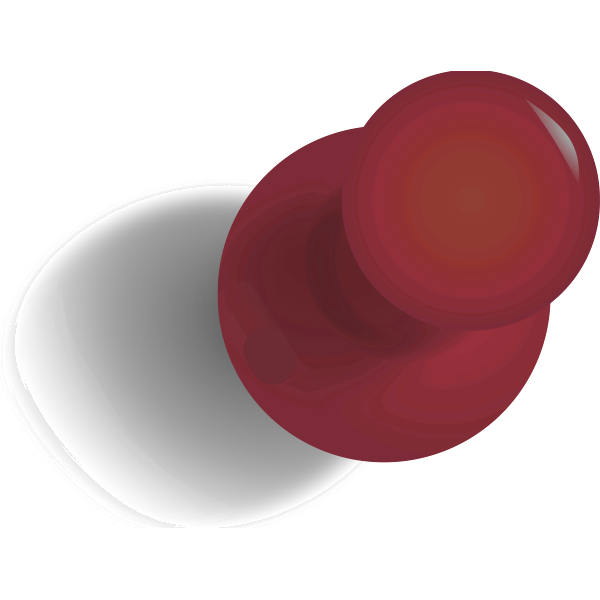
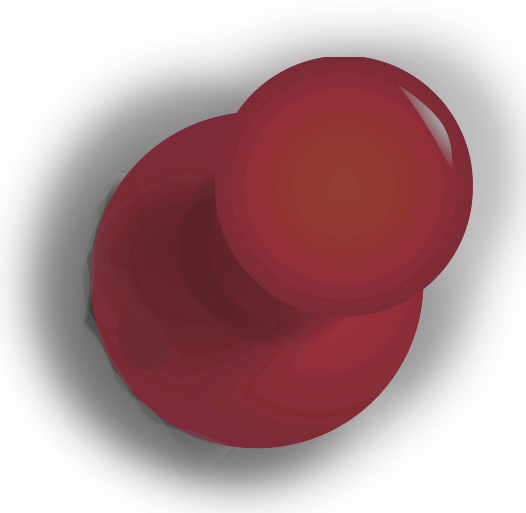
Added more shading and updated pushpin

diff --git a/frontend/src/assets/less/App.less b/frontend/src/assets/less/App.less
@@ -17,7 +17,7 @@
 
 #content {
   width: 100vw;
-  position: relative
+  position: relative;
 }
 
 // Map
@@ -30,9 +30,6 @@
     inset 0 0 300px rgb(0, 0, 0),
     inset 0 0 300px rgb(0, 0, 0);
   backdrop-filter: blur(5px);
-}
-
-#mapContainer {
 }
 
 ::-webkit-scrollbar {
@@ -64,10 +61,6 @@
   width: 100vw;
   height: 100vh;
   background-color: black !important;
-  animation: fadein 2s;
-  -moz-animation: fadein 2s; /* Firefox */
-  -webkit-animation: fadein 2s; /* Safari and Chrome */
-  -o-animation: fadein 2s; /* Opera */
 }
 
 .leaflet-bar a,
@@ -77,14 +70,16 @@
   filter: drop-shadow(2px 2px 2px #000000)
 }
 
+
 // Side Bar
 #sideBar {
   font-family: 'Aniron', sans-serif;
   position: absolute;
   z-index: 10;
-  padding-top: 50vh;
-  padding-bottom: 35vh;
+  margin-top: 30vh;
+  margin-bottom: 10vh;
   transform: rotate(180deg);
+  filter: drop-shadow(5px 5px 30px black);
 }
 
 #sideBar span {
@@ -96,6 +91,12 @@
   padding-left: 5px !important;
   padding-right: 5px !important;
   height: 60px !important;
+}
+
+.leaflet-marker-icon:hover {
+  filter: brightness(1.5);
+  filter: drop-shadow();
+  filter: saturate(1.5);
 }
 
 .ant-menu.ant-menu-dark {
@@ -144,36 +145,3 @@
 //   margin-top: 25px;
 //   filter: invert(100%);
 // }
-
-@keyframes fadein {
-  from {
-      opacity:0;
-  }
-  to {
-      opacity:1;
-  }
-}
-@-moz-keyframes fadein { /* Firefox */
-  from {
-      opacity:0;
-  }
-  to {
-      opacity:1;
-  }
-}
-@-webkit-keyframes fadein { /* Safari and Chrome */
-  from {
-      opacity:0;
-  }
-  to {
-      opacity:1;
-  }
-}
-@-o-keyframes fadein { /* Opera */
-  from {
-      opacity:0;
-  }
-  to {
-      opacity: 1;
-  }
-}

diff --git a/frontend/src/assets/less/StandardLayout.less b/frontend/src/assets/less/StandardLayout.less
@@ -21,6 +21,7 @@
     position: absolute;
     z-index: 1;
     background-color: transparent;
+    padding-top: 3vh;
 }
 .content {
     padding: 100px;
@@ -36,6 +37,10 @@
       inset 0 0 300px rgb(0, 0, 0),
       inset 0 0 300px rgb(0, 0, 0);
     backdrop-filter: blur(5px);
+    animation: fadein 3s;
+    -moz-animation: fadein 3s; /* Firefox */
+    -webkit-animation: fadein 3s; /* Safari and Chrome */
+    -o-animation: fadein 3s; /* Opera */
 }
 
 .content h2 {
@@ -96,13 +101,52 @@
 }
 
 .footer {
+    margin-top: 87vh;
+    z-index: 2;
+    position: absolute;
     width: 100%;
-    height: 10.7vh;
+    height: 10vh;
     align-content: center;
     font-size: small;
-    background-color: #000000;
+    background: transparent;
+    color: white;
+    font-size: 50px;
 }
 
 .feedbackForm {
     padding-top: 0%;
 }
+
+
+@keyframes fadein {
+    from {
+        opacity:0.1;
+    }
+    to {
+        opacity:1;
+    }
+  }
+  @-moz-keyframes fadein { /* Firefox */
+    from {
+      opacity:0.1;
+    }
+    to {
+        opacity:1;
+    }
+  }
+  @-webkit-keyframes fadein { /* Safari and Chrome */
+    from {
+      opacity:0.1;
+    }
+    to {
+        opacity:1;
+    }
+  }
+  @-o-keyframes fadein { /* Opera */
+    from {
+      opacity:0.1;
+    }
+    to {
+        opacity: 1;
+    }
+  }

diff --git a/frontend/src/components/pages/Credits.tsx b/frontend/src/components/pages/Credits.tsx
@@ -10,7 +10,7 @@ export const Credits = (props: any) => {
             <Header className='header'>Credits</Header>
             <div id="mapBackground" >
                 <Content className="content">
-                    <h2>My most sincere and genuine thanks goes to</h2>
+                    <h2>My most sincere and genuine thanks to</h2>
                     <ul>
                         <li><a href="https://www.youtube.com/channel/UC4yJ5i9YkhahKCd1KH6xAyg" className="goldenHostLink">The Golden Host</a></li>
                         <li><a href="https://www.youtube.com/channel/UCjrlJLts89CTTqRD4B6vGxQ" className="lotroCollectionLink">LOTRO: Soundtrack Collection</a></li>

diff --git a/frontend/src/components/pages/Map.tsx b/frontend/src/components/pages/Map.tsx
@@ -102,9 +102,9 @@ export const LOTRMap = (props: any) => {
                     zoomSnap={0.2}
                     zoomDelta={0.2}
                     maxZoom={-0.5}
-                    minZoom={-2.6}
+                    minZoom={-3}
                     zoom={-1}
-                    wheelDebounceTime={0}
+                    wheelDebounceTime={0.3}
                     wheelPxPerZoomLevel={120}
                     ref={async (map) => {
                         if(map) {

diff --git a/frontend/src/components/pages/Feedback.tsx b/frontend/src/components/pages/Feedback.tsx
@@ -147,7 +147,9 @@ export const Feedback = (props: any) => {
                     </Form>
                 </Content>
             </div>
-            <Footer className='footer'></Footer>
+            <Footer className='footer'>
+                {/* Content */}
+            </Footer>
         </Layout>
     );
 };
